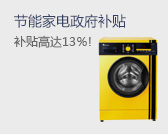
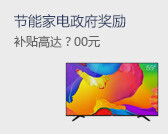
增加分类图片

diff --git a/css/main.css b/css/main.css
@@ -185,6 +185,10 @@
 	margin-right: 1px;
 	margin-bottom: 1px;
 }
+.mainpage-class-detail .rightpic li img{
+	width: 83px;
+	height: 35px;
+}
 .mainpage-class-detail .rightpic >a img{
 	float: left;
 	margin-bottom: 1px;
